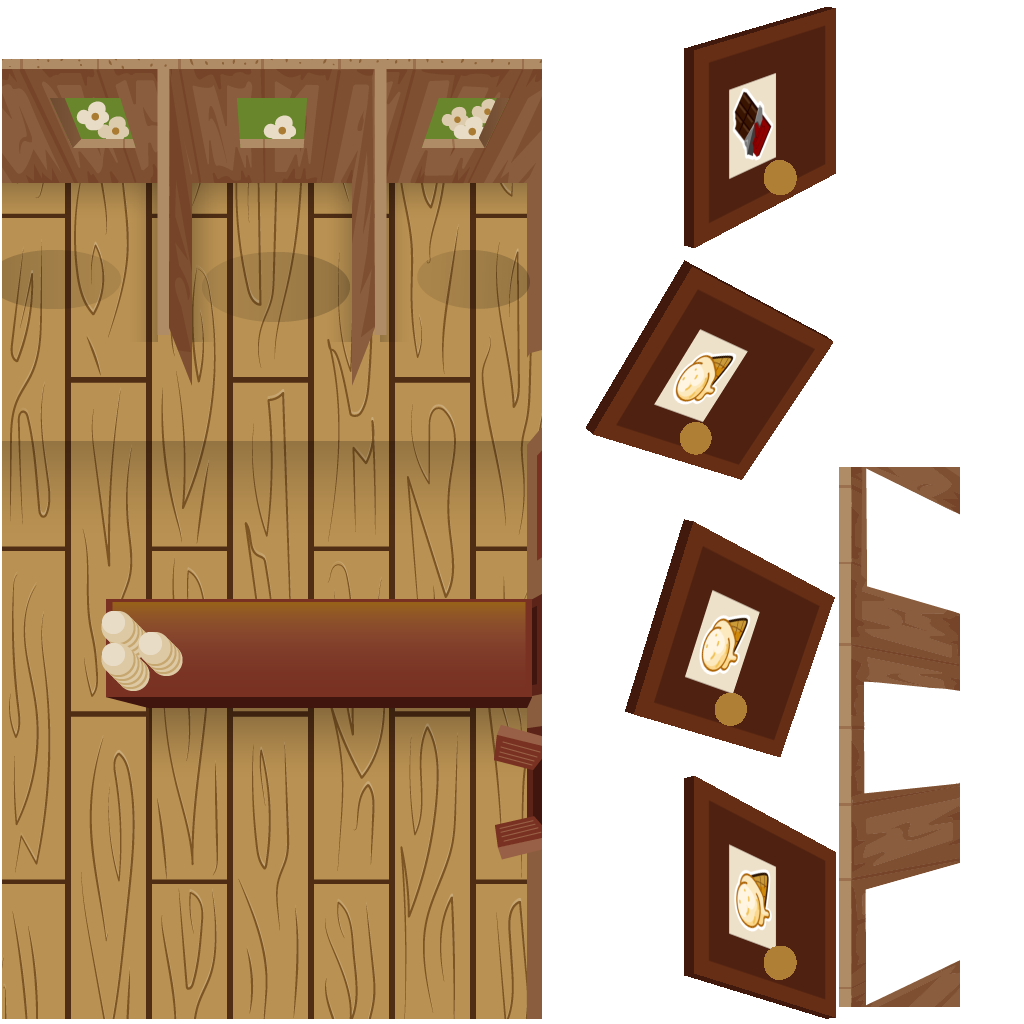
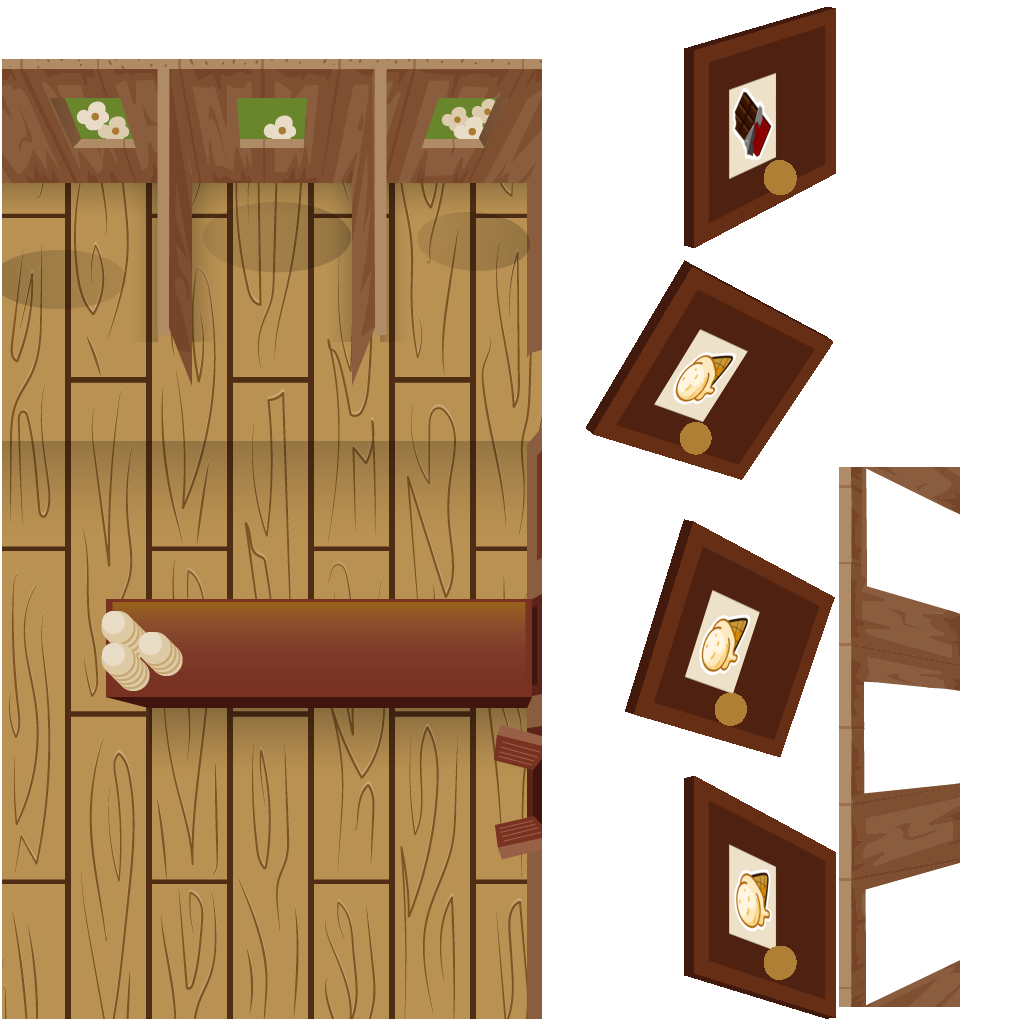
cow´s Shadow

Changed region(s): [[0.25, 0.1875, 0.3438, 0.3125], [0.4375, 0.1875, 0.5312, 0.3125]]

diff --git a/nonrefactored/milkySaloon/milkySaloon/js/scenes/milky.js b/nonrefactored/milkySaloon/milkySaloon/js/scenes/milky.js
@@ -368,14 +368,14 @@ var milky = function(){
         chocoCow.setSkinByName("normal")
         sceneGroup.add(chocoCow)
         
-        var strawCow = game.add.spine(game.world.centerX + 10, bar.y - 150, "cow")
+        var strawCow = game.add.spine(game.world.centerX + 10, bar.y - 170, "cow")
         //strawCow.scale.setTo(0.9, 0.9)
         strawCow.setAnimationByName(0, "IDLE", true)
         strawCow.setSkinByName("normal1")
         sceneGroup.add(strawCow)
         
-        var vanillaCow = game.add.spine(game.world.centerX + 240, bar.y - 150, "cow")
-        //vanillaCow.scale.setTo(0.9, 0.9)
+        var vanillaCow = game.add.spine(game.world.centerX + 245, bar.y - 180, "cow")
+        vanillaCow.scale.setTo(0.9, 0.9)
         vanillaCow.setAnimationByName(0, "IDLE", true)
         vanillaCow.setSkinByName("normal2")
         sceneGroup.add(vanillaCow)
